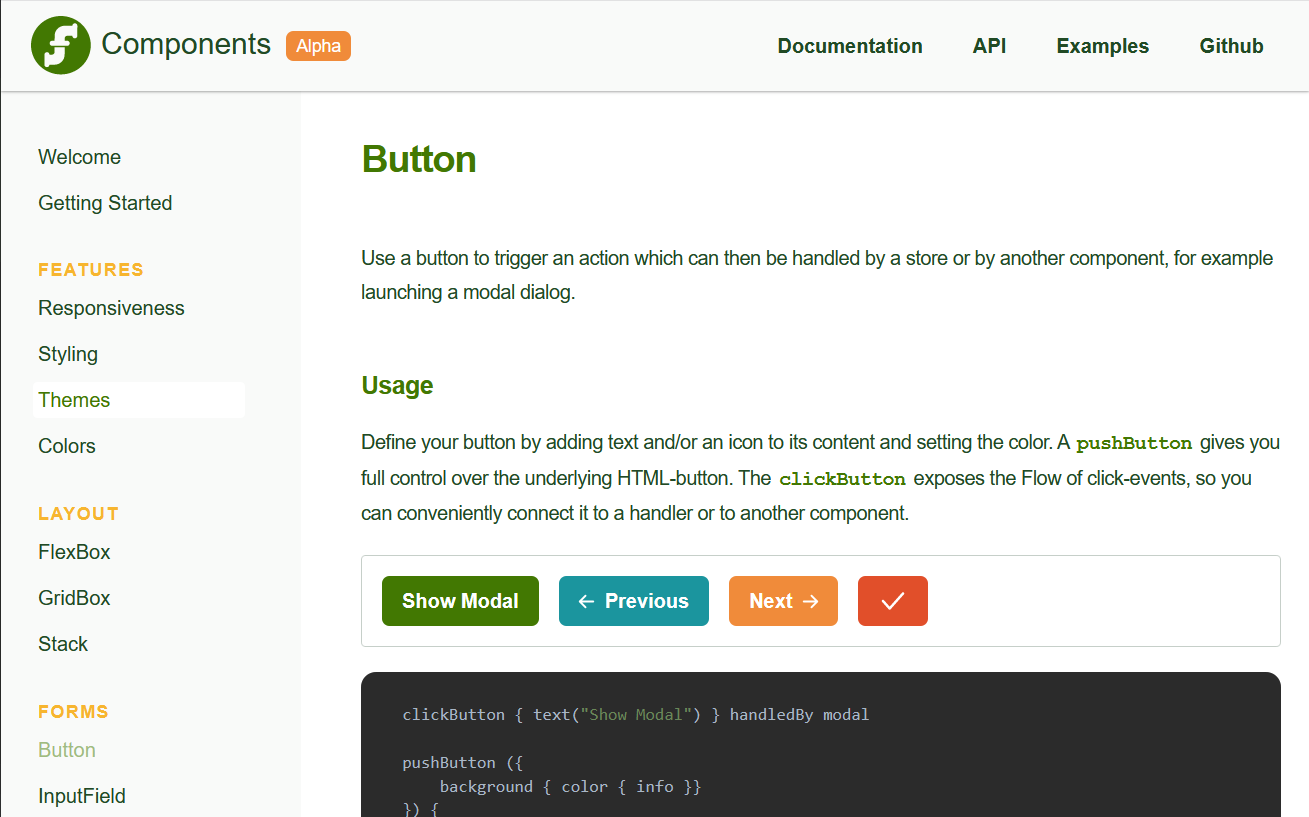
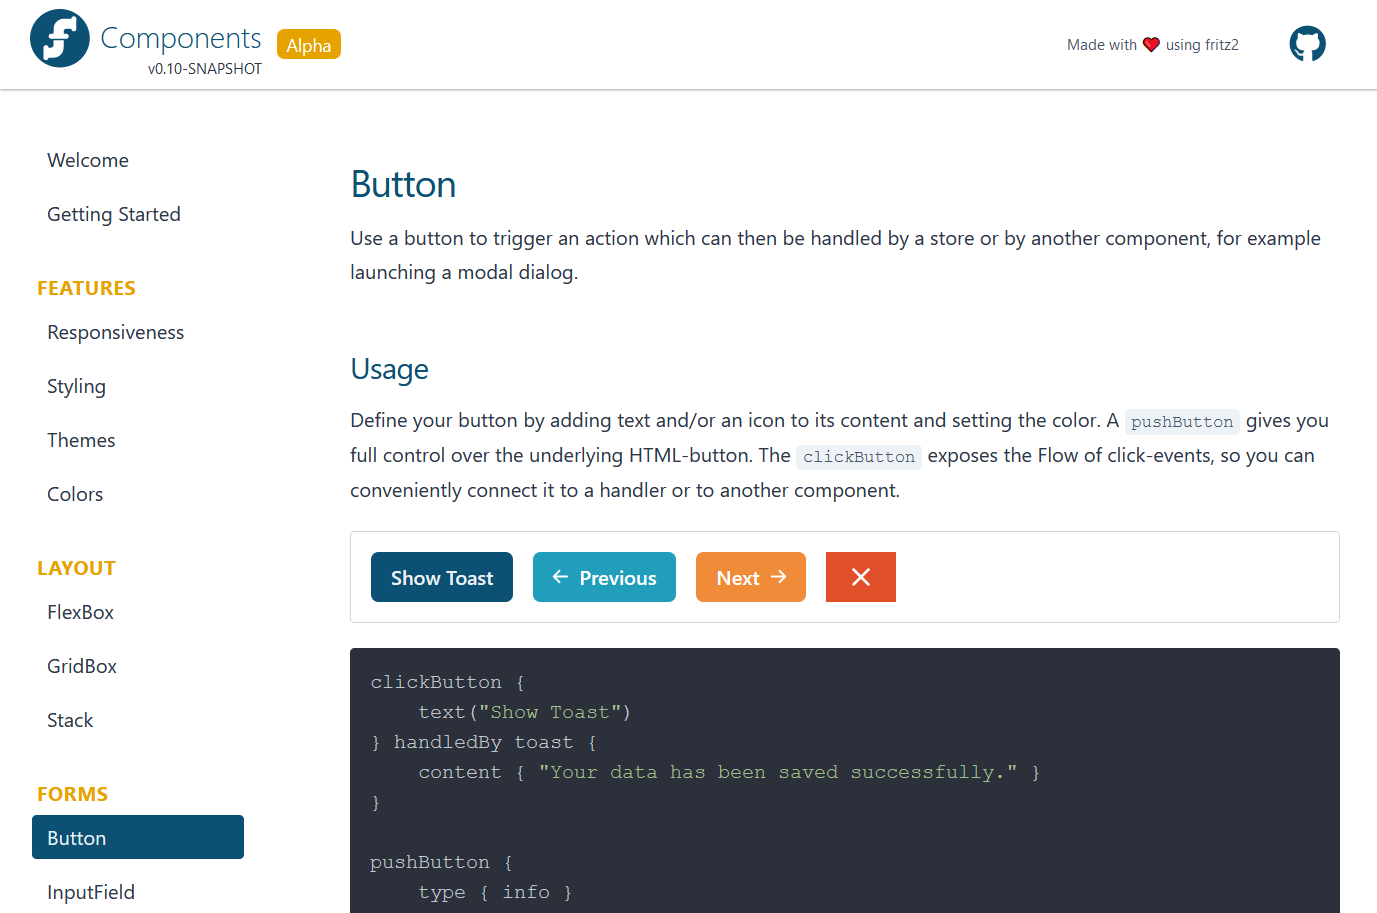
Adapt changes of fritz2's 0.10 release
- correct all styling content due to [PR#337](https://github.com/jwstegemann/fritz2/pull/337)
- remove example with ``staticStyle`` due to [PR#345](https://github.com/jwstegemann/fritz2/pull/345)
- change version number to ``0.10`` in project setup page (text and source snippets)
- change screenshot of current KitchenSink demo look (Not with
- check all pages for changes; nothing else found!

diff --git a/StylingDSL.md b/StylingDSL.md
@@ -8,11 +8,14 @@ nav_order: 172
 
 To make building components with unified styling even faster and simpler, fritz2 offers its own DSL which makes use of 
 constraint-based style props based on scales defined in a `Theme`. 
-Just call `styled` on the factory function of the element you would like to style and specify your concrete styling in its lambda:
+Just use the overloaded factory function to create a HTML tag and specify your concrete 
+styling as lambda expression as first parameter:
 
 ```kotlin
+import dev.fritz2.styling.*
+
 fun RenderContext.headerImage(srcUrl: String, alternativeText: String) {
-    (::img.styled {
+    img({
         boxShadow { flat }
         radius { large }
         width(sm = { small }, md = { smaller })
@@ -23,18 +26,21 @@ fun RenderContext.headerImage(srcUrl: String, alternativeText: String) {
 }
 ```
 
+**Important**: Add the following import to get the new extension functions: ``import dev.fritz2.styling.*``
+
 Remember that this does not result in inline-styling but rather uses fritz2's `style` function to dynamically create 
 css classes in a dynamic style sheet managed by fritz2. See [Styling](Styling.html) fot further details.
 
 fritz2's styling DSL does not aim to support the entirety of the css standard. 
 Similar to [Styled System](https://styled-system.com/), it offers fast, type-safe, and themed access to the most important 
-properties for adapting components and elements to the special requirements of any situation, and for re-composing them time and again.
+properties for adapting components and elements to the special requirements of any situation, and for re-composing 
+them time and again.
 
 To remain as flexible as possible, values of properties can alternatively be passed as `String`s, 
 like `width { "73%" }`. Additionally, using the `css()` function allows you to set properties that are not part of the DSL:
 
 ```kotlin
-(::p.styled {
+p({
     css("animation: mymove 5s infinite;")
 }) {
     div { + "some animated content"}
@@ -44,7 +50,7 @@ like `width { "73%" }`. Additionally, using the `css()` function allows you to s
 In addition to the usual pseudo elements and classes, the function `children()` gives access to (sub-)selectors:
 
 ```kotlin
-(::div.styled {
+div({
     children(" > :not(:first-child)") {
         margins { top { large } }
     }
@@ -58,11 +64,11 @@ You can still pass `baseClass`, `id`, and `prefix` to styled elements, of course
 
 ```kotlin
 fun RenderContext.headerImage(srcUrl: String, alternativeText: String) {
-    (::img.styled(id = "4711", prefix = "headerImage") {
+    img({
         boxShadow { flat }
         radius { large }
         width(sm = { small }, md = { smaller })
-    }) {
+    }, id = "4711", prefix = "headerImage") {
         src(srcUrl)
         alt(alternativeText)
     }
@@ -79,7 +85,7 @@ You can set each property independently for these viewport-sizes:
 {
     fontSize(sm = { tiny }, lg = { normal })
     width(sm = { full }, lg = { "768px" })
-    color { primary }
+    color { primary.mainContrast }
 }
 ```
 The concrete definition of the breakpoints (by media-query) is part of each `Theme`.
@@ -123,11 +129,11 @@ val teaserText: Style<BasicParams> = {
     fontWeight { semiBold }
     textTransform { uppercase }
     textShadow { glowing }
-    color { info }
+    color { info.mainContrast }
 }
 
 render {
-    (::p.styled {
+    p({
         margins { top { small } }
         teaserText() 
     }) {
@@ -145,7 +151,7 @@ object MyTheme: DefaultTheme() {
     override val name = "MyTheme"
 
     override val colors = object : Colors by super.colors {
-        override val dark = "darkblue" // overrides default dark color
+        override val font = "darkblue" // overrides default font color
     }
 }
 
@@ -185,7 +191,7 @@ You can specify the specific sub-type here as well to avoid numerous calls to `T
 ```kotlin
 fun main() {
     render(MyTheme) { theme: MyTheme ->
-        (::p.styled {
+        p({
             color { theme.importantColor }
             theme.teaserText()
         }) { +"some great looking text" }

diff --git a/Styling.md b/Styling.md
@@ -35,35 +35,8 @@ Add the following dependency to your gradle build:
 # StyleClass
 
 The key element of fritz2-styling is the `StyleClass`. An instance of `StyleClass` represents exactly one css class in 
-the dynamic stylesheet managed by fritz2. The `name`-attribute can be used whenever css classes are needed as a `String` in fritz2-core:
-
-```kotlin
-val height = "100%"
-val useFlex = true
-
-val myStyle: StyleClass = staticStyle("myClassName", css = """
-            min-height: $height;
-            flex-direction: row;
-            align-items: stretch;
-            color: rgb(52, 58, 64);
-            display: ${if (useFlex) "flex" else "block"};
-        """)
-
-render {
-    div(myStyle.name) {
-        +"here I am"
-    }
-}
-````
-
-The factory method `staticStyle` compiles the passed css code and inserts a class named `myClassName` into the 
-fritz2-managed stylesheet. It uses the [stylis] (https://stylis.js.org/) css compiler, which offers a slightly extended 
-syntax over pure css. It allows embedded selectors as well as media classes and namespaces. 
-
-Of course, you can use Kotlin variables and even code inside your styles, but since this class has a static name, 
-your variable cannot change over time. 
-
-Use `style` to create dynamic classes:
+the dynamic stylesheet managed by fritz2. The `name`-attribute can be used whenever css classes are needed as a 
+`String` in fritz2-core:
 
 ```kotlin
 fun RenderContext.myComponent(height: Int, isFlex: Boolean) {
@@ -80,9 +53,15 @@ fun RenderContext.myComponent(height: Int, isFlex: Boolean) {
     }
 }
 ```
-Every time this component is rendered, fritz2 creates a new class name, consisting of the prefix and a calculated hash value (i.e. `myComponent-iHpEb`). 
-This ensures that each created class has unique content, and classes that already exist are reused if the content has not changed. 
-The prefix allows you to use semantic identifiers which makes it easy to debug your styling in the browser. 
+Every time this component is rendered, fritz2 creates a new class name, consisting of the prefix and a calculated
+hash value (i.e. `myComponent-iHpEb`). This ensures that each created class has unique content, and classes that
+already exist are reused if the content has not changed. The prefix allows you to use semantic identifiers which
+makes it easy to debug your styling in the browser.
+
+It uses the [stylis] (https://stylis.js.org/) css compiler, which offers a slightly extended 
+syntax over pure css. It allows embedded selectors as well as media classes and namespaces. 
+
+Of course, you can use Kotlin variables and even code inside your styles.
 
 IntelliJ uses [language injections](https://www.jetbrains.com/help/idea/using-language-injections.html), 
 making it easy and comfortable to edit css code in kotlin files.

diff --git a/ComponentLibrary.md b/ComponentLibrary.md
@@ -66,6 +66,8 @@ fritz2 currently offers the following components:
   - ``TextArea``
   - ``Switch``
   - ``FormControl``
+- Complex:
+  - ``DataTable`` (new with 0.10)
 - Overlay:
   - ``Modal``
   - ``Popover``
@@ -82,8 +84,6 @@ The following components are planned for future releases:
   - ``AppFrame``
 - Overlay
   - ``Menu``
-- Forms
-  - ``DataTable``
 - Feedback:
   - ``Progress``
   
@@ -140,7 +140,7 @@ render {
         alignItems { center }
         padding { small }
         background {
-            color { light }
+            color { gray200 }
         }
     }) { // configure content and behaviour / appearance within the build context
         reverse(true) // show items in reverse declaration order
@@ -214,7 +214,7 @@ div {
 
 ![components example getting interactive](images/components_gettinginteractive_1.png)
 
-First of all, a simple ``Boolean`` [store](Store.html) is created for toggling between _visible_ and _hidden_, 
+First a simple ``Boolean`` [store](Store.html) is created for toggling between _visible_ and _hidden_, 
 which will be used to show our information only when the store's  state is _true_. 
 
 Then, a ``pushButton`` component is created to toggle that state. As was previously shown, a functional expression
@@ -298,7 +298,7 @@ of our components, the factory functions. Their signatures follow a consistent p
 fun RenderContext.generic(
     styling: BasicParams.() -> Unit = {},
     // additional arguments are placed here, e.g. stores in some cases
-    baseClass: StyleClass? = null,
+    baseClass: StyleClass? = StyleClass.None,
     id: String? = null,
     prefix: String = "generic",
     build: GenericComponent.() -> Unit = {} // is sometimes called ``init`` for basic components

diff --git a/ProjectSetup.md b/ProjectSetup.md
@@ -12,7 +12,7 @@ To use fritz2, you have to set up a Kotlin multiplatform-project. To do so you c
 
 ```gradle
 plugins {
-    id("dev.fritz2.fritz2-gradle") version "0.9"
+    id("dev.fritz2.fritz2-gradle") version "0.10"
 }
 
 repositories {
@@ -28,9 +28,9 @@ kotlin {
     sourceSets {
         val commonMain by getting {
             dependencies {
-                implementation("dev.fritz2:core:0.9")
+                implementation("dev.fritz2:core:0.10")
                 // see https://components.fritz2.dev/
-                // implementation("dev.fritz2:components:0.9")
+                // implementation("dev.fritz2:components:0.10")
             }
         }
         val jvmMain by getting {
@@ -51,7 +51,7 @@ following lines to your `build.gradle.kts`:
 
 ```gradle
 plugins {
-    id("dev.fritz2.fritz2-gradle") version "0.9"
+    id("dev.fritz2.fritz2-gradle") version "0.10"
 }
 
 repositories {
@@ -68,8 +68,8 @@ kotlin {
     sourceSets {
         val commonMain by getting {
             dependencies {
-                implementation("dev.fritz2:core:0.10-SNAPSHOT") // add the newer snapshot version here
-                // implementation("dev.fritz2:components:0.10-SNAPSHOT")
+                implementation("dev.fritz2:core:0.11-SNAPSHOT") // add the newer snapshot version here
+                // implementation("dev.fritz2:components:0.11-SNAPSHOT")
             }
         }
         ...
